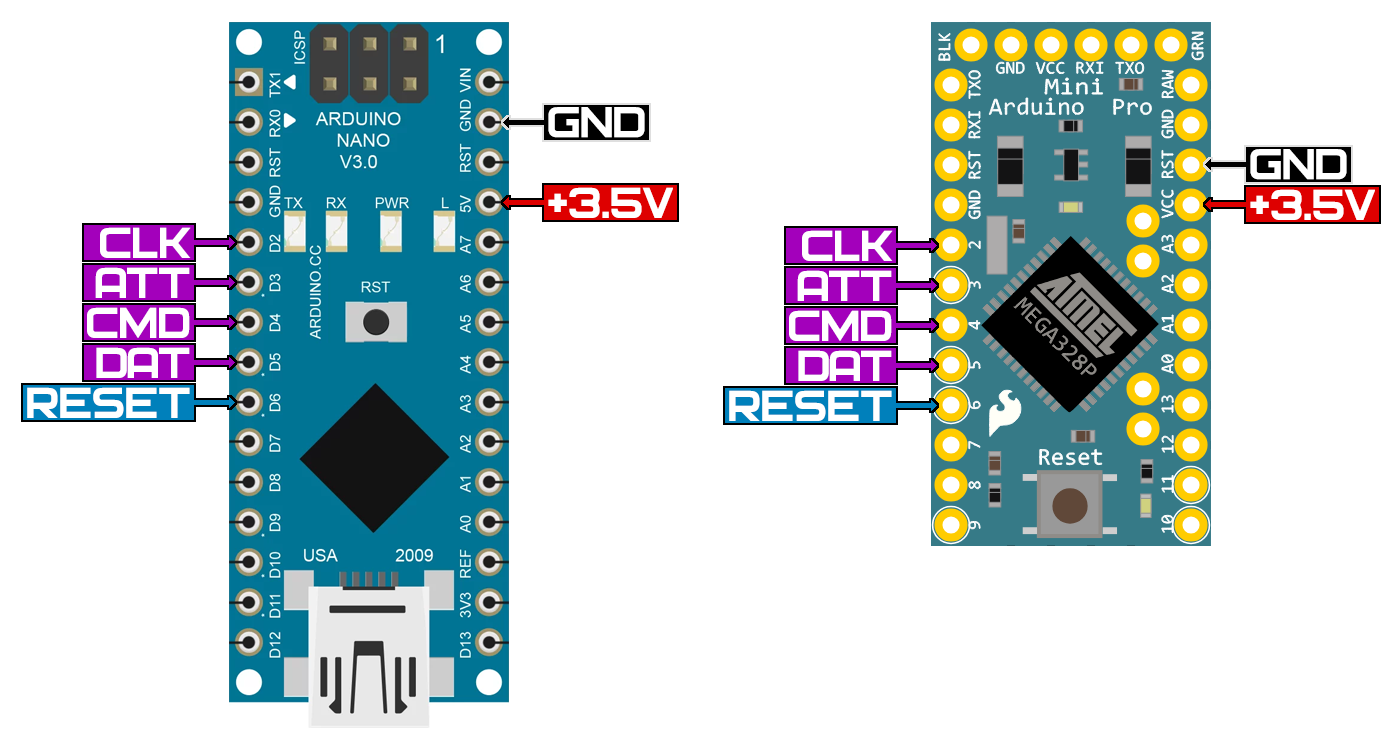
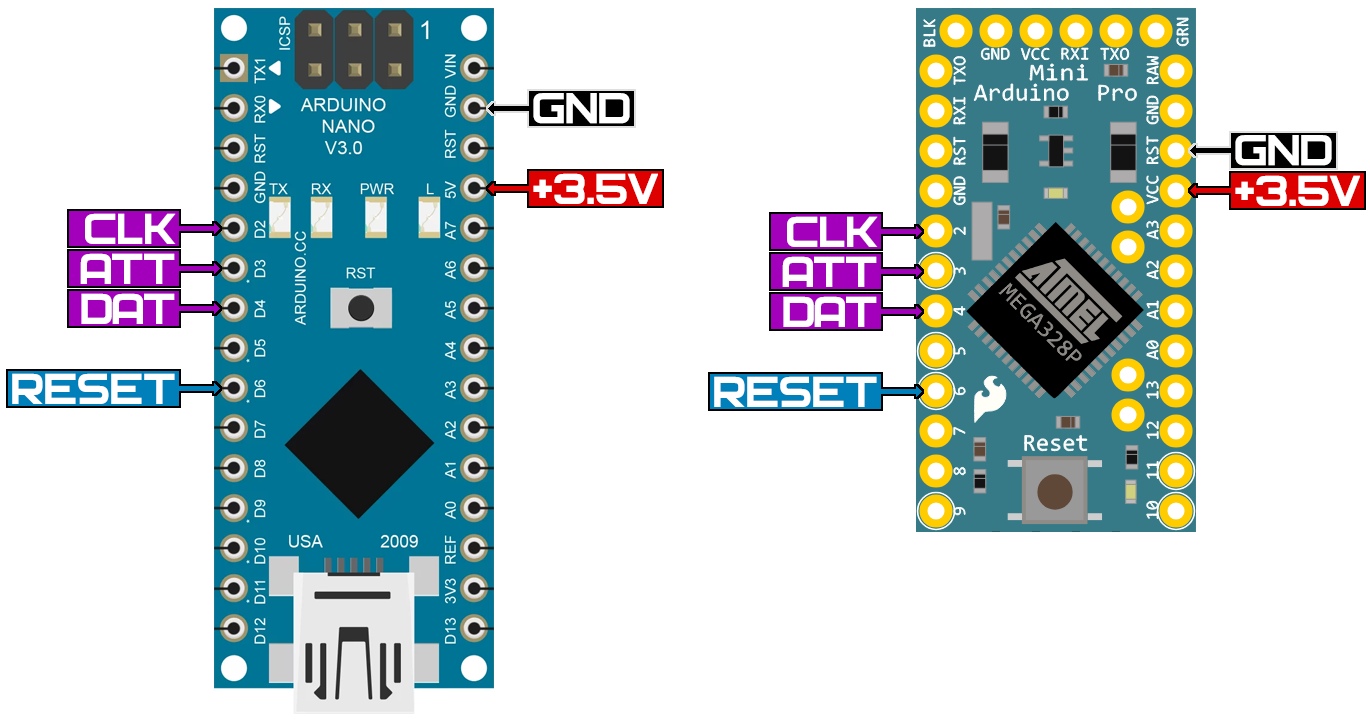
Removed CMD, changed pinout.

Changed region(s): [[0.0, 0.0, 0.4905, 0.9778], [0.5212, 0.0, 1.0, 0.7639], [0.2453, 0.6722, 0.2759, 0.7333]]

diff --git a/main.c b/main.c
@@ -7,8 +7,8 @@
  *       GND <- GND
  * (PD2) D2  <- Pad Port Pin 7 (CLK)
  * (PD3) D3  <- Pad Port Pin 6 (ATT/SS)
- * (PD4) D4  <- Pad Port Pin 2 (CMD)
- * (PD5) D5  <- Pad Port Pin 1 (DAT)
+ * (PD4) D4  <- Pad Port Pin 1 (DAT)
+ * (PD5) D5  -- x
  * (PD6) D6  -> RESET
  * (PD7) D7  -- x
  * (PB0) D8  -- x
@@ -62,11 +62,8 @@
 // ----------------------------------------------------------------------------
 #define CLK (PIND & _BV(DDD2))
 #define ATT (PIND & _BV(DDD3))
-#define CMD_MASK _BV(DDD4)
-#define DAT_MASK _BV(DDD5)
+#define DAT_MASK _BV(DDD4)
 // ----------------------------------------------------------------------------
-#define max_cmd_bytes 2
-#define max_cmd_nbit  (max_cmd_bytes * 8)
 #define max_dat_bytes 5
 #define max_dat_nbit  (max_dat_bytes * 8)
 // ----------------------------------------------------------------------------
@@ -88,24 +85,14 @@
 #define BTN1_CROSS    (1 << 6)
 #define BTN1_SQUARE   (1 << 7)
 // ----------------------------------------------------------------------------
-union cmd_t
-{
-  uint8_t buf[max_cmd_bytes];
-  struct
-  {
-    uint8_t dev;
-    uint8_t cmd;
-  };
-};
-// ----------------------------------------------------------------------------
 union dat_t
 {
   uint8_t buf[max_dat_bytes];
   struct
   {
     uint8_t ff;
-    uint8_t id0;
-    uint8_t id1;
+    uint8_t pid; // Peripheral ID (0x4x - Digital, 0x5x - Dual Analog, 0x6x - GunCon, 0x7x - Analogue)
+    uint8_t sid; // Source ID (for controller = 0x5A)
     uint8_t btn0;
     uint8_t btn1;
   };
@@ -199,7 +186,6 @@ int main(void)
   uint8_t cnt_long  = 0;
 #endif
 
-  union cmd_t cmd;
   union dat_t dat;
 
   while (1)
@@ -239,14 +225,9 @@ int main(void)
     cbi(EIMSK, INT0);
 #endif
     // ----------------------------------------------------
-    memset(cmd.buf, 0, max_cmd_bytes);
     memset(dat.buf, 0, max_dat_bytes);
 
     nbits = 0;
-
-    for (uint8_t i = 0; i < max_cmd_nbit; i++)
-      if (bits[i] & CMD_MASK)
-        cmd.buf[i >> 3] |= _BV(i % 8);
 
     for (uint8_t i = 0; i < max_dat_nbit; i++)
       if (bits[i] & DAT_MASK)
@@ -268,9 +249,13 @@ int main(void)
     Serial.println("");
 */
     // ----------------------------------------------------
-    if (cmd.dev == 0x01 && cmd.cmd == 0x42)
+    if (dat.sid == 0x5A)
     {
-      if (dat.id1 == 0x5A && (dat.id0 == 0x41 || dat.id0 == 0x73 || dat.id0 == 53))
+      // 0x4x - Digital
+      // 0x5x - Dual Analog
+      // 0x6x - GunCon
+      // 0x7x - Analogue
+      if ( (dat.pid == 0x41) || (dat.pid == 0x73) || (dat.pid == 0x53) )
       {
         // bt0 bits: LEFT, DOWN, RIGHT, UP, START, R3, L3, SELECT
         // bt1 bits: SQUARE, CROSS, CIRCLE, TRIANGLE, R1, L1, R2, L2

diff --git a/README.md b/README.md
@@ -44,8 +44,8 @@ Here is a simplest connection pinout Arduino board to PlayStation board:
 |       GND | <- | GND |
 | (PD2) D2  | <- | Pad Port Pin 7 (CLK) |
 | (PD3) D3  | <- | Pad Port Pin 6 (ATT/SS) |
-| (PD4) D4  | <- | Pad Port Pin 2 (CMD) |
-| (PD5) D5  | <- | Pad Port Pin 1 (DAT) |
+| (PD4) D4  | <- | Pad Port Pin 1 (DAT) |
+| (PD5) D5  | -- | `X` |
 | (PD6) D6  | -> | RESET Pin in PSU connector or RESET point for PSone |
 | (PD7) D7  | -- | `X` |
 | (PB0) D8  | -- | `X` |
